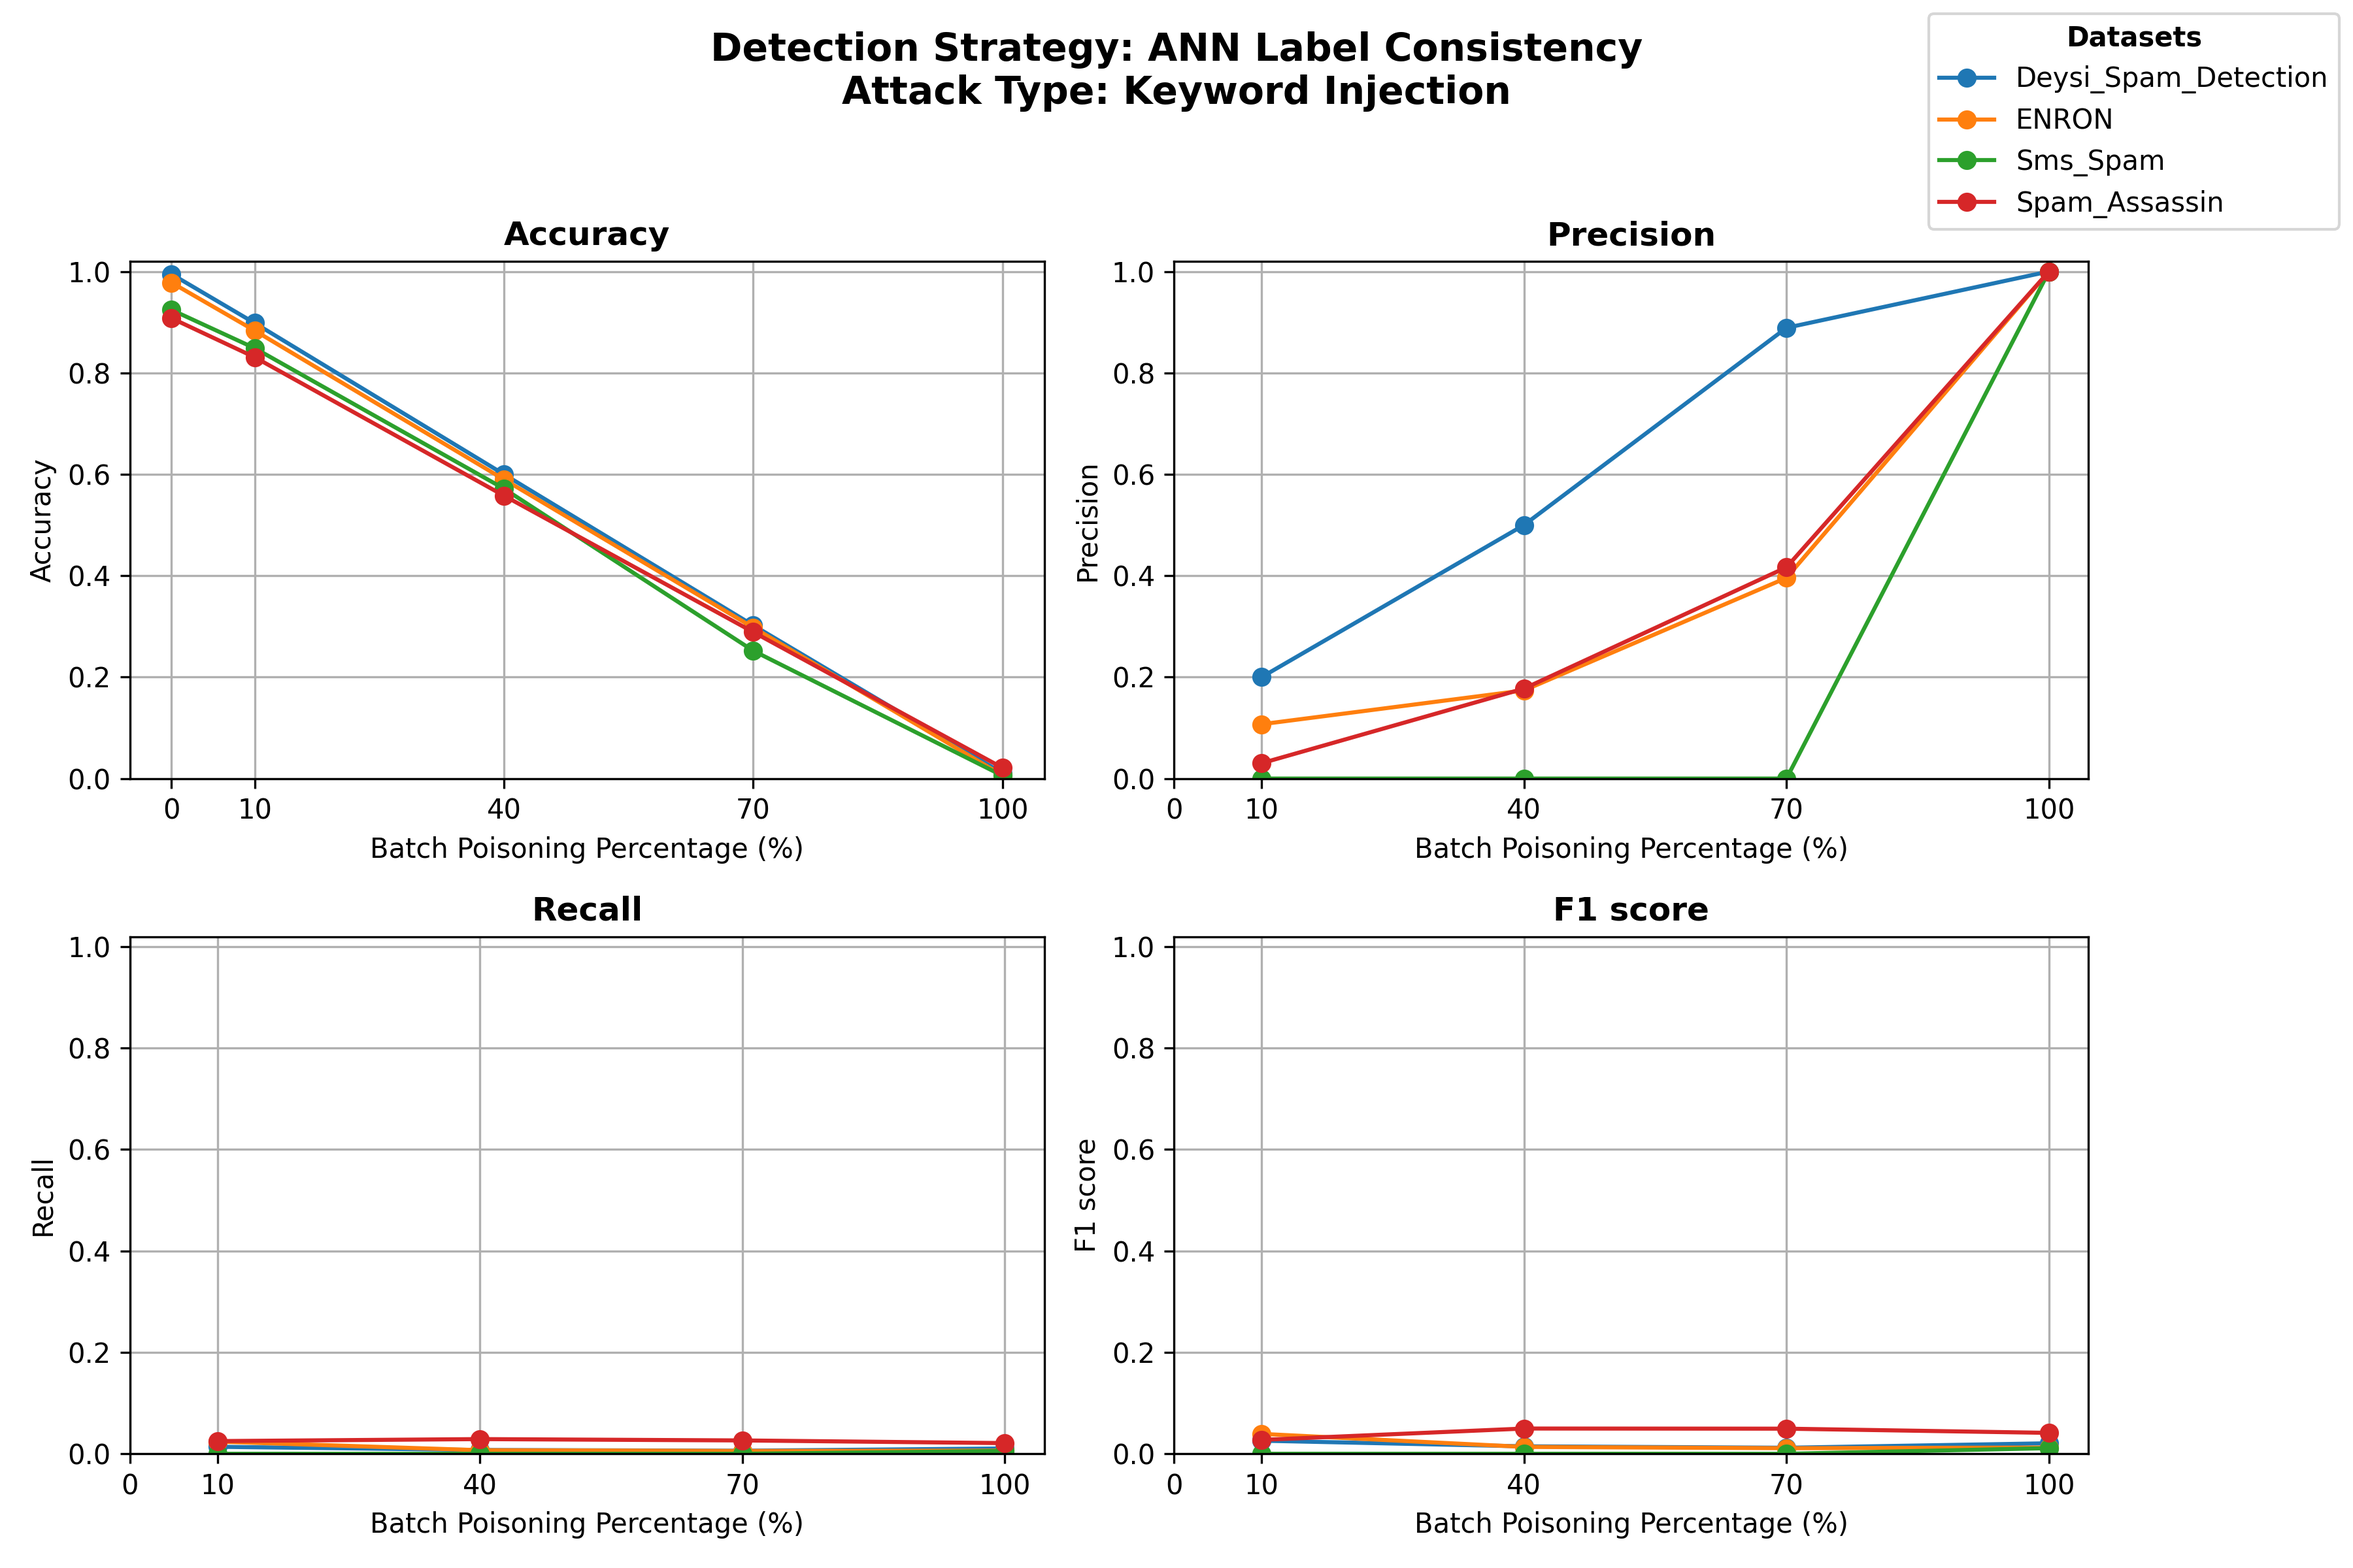
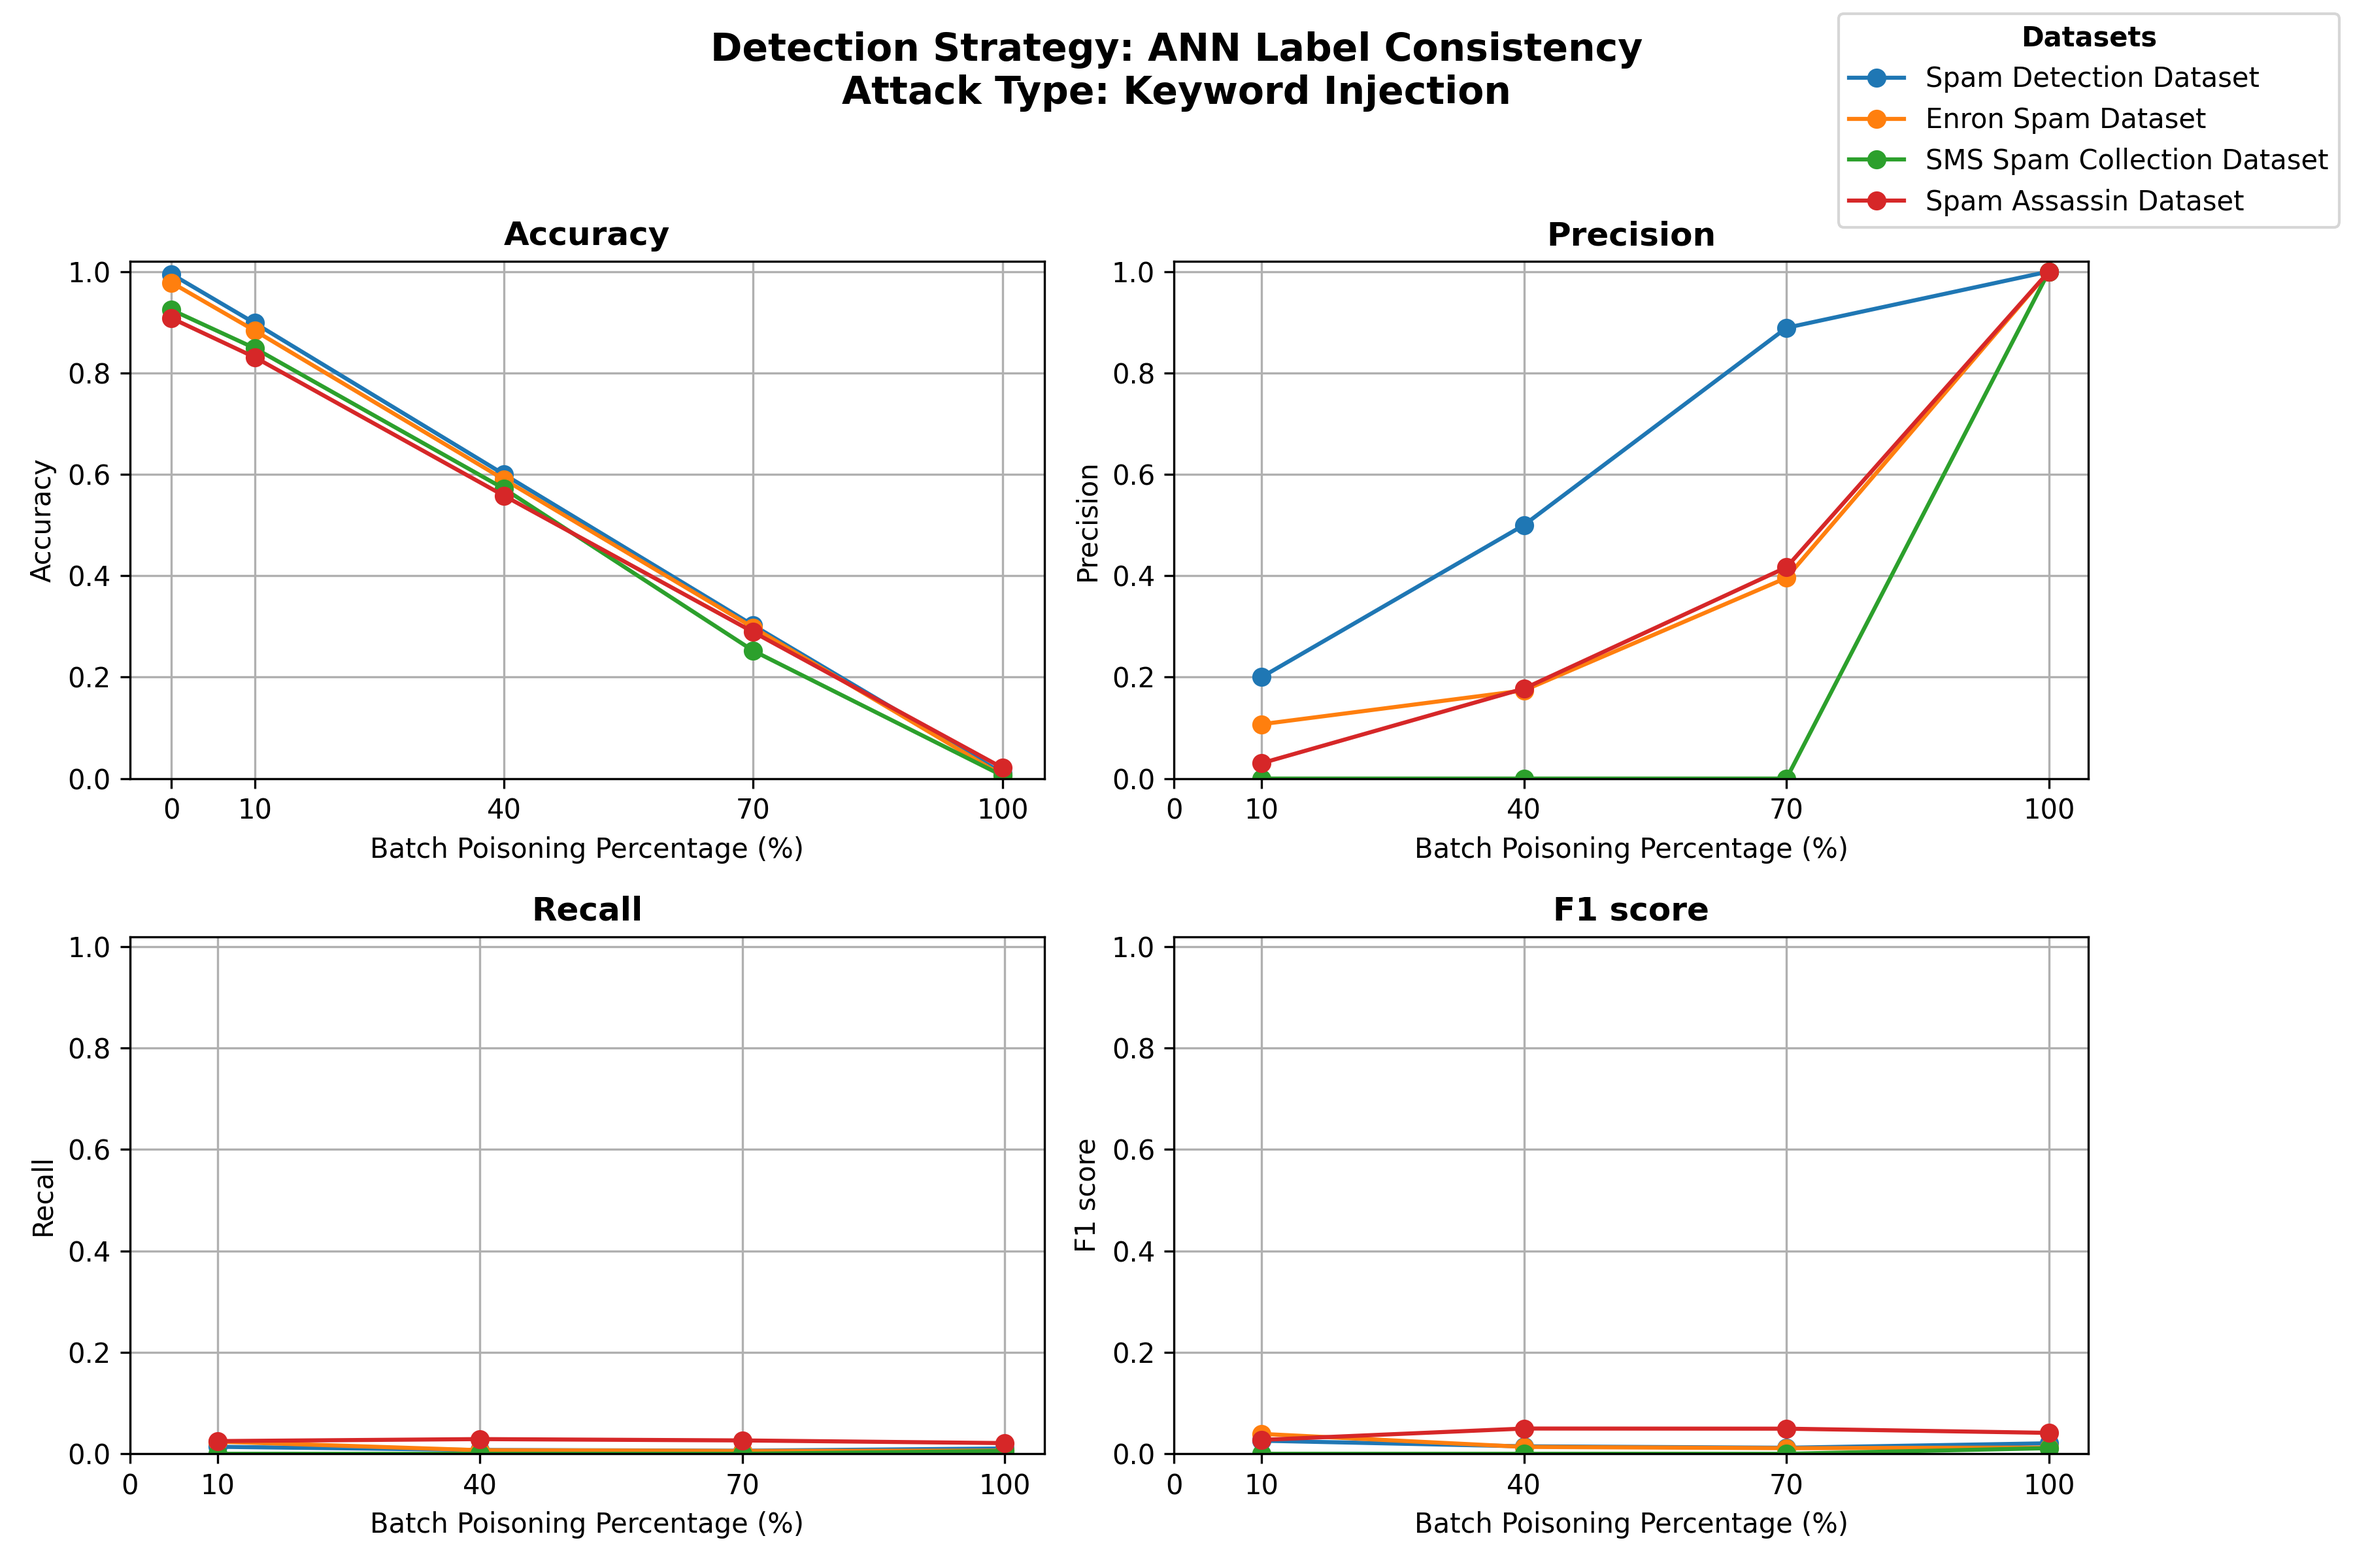
:sparkles: feat(rag-service): Fix dataset names in legend

Changed region(s): [[0.7778, 0.0, 0.9956, 0.1562]]

diff --git a/src/rag-service/detection_strategies_evaluation_experiments/graph_plotting/utils.py b/src/rag-service/detection_strategies_evaluation_experiments/graph_plotting/utils.py
@@ -17,16 +17,12 @@ def pretty_attack_name(name):
     }
     return mapping.get(name, name.replace("_", " ").title())
 
-
-def pretty_dataset_name(name):
-    return name.upper() if name.lower() == "enron" else name.title()
-
 DATASET_DISPLAY_NAMES = {
-    "Deysi_Spam_Detection": "Spam Detection Dataset",
-    "ENRON": "Enron Spam Dataset",
-    "Sms_Spam": "SMS Spam Collection Dataset",
-    "Spam_Assassin": "Spam Assassin Dataset",
+    "deysi_spam_detection": "Spam Detection Dataset",
+    "enron": "Enron Spam Dataset",
+    "sms_spam": "SMS Spam Collection Dataset",
+    "spam_assassin": "Spam Assassin Dataset",
 }
 
 def full_dataset_name(name):
-    return DATASET_DISPLAY_NAMES.get(name, pretty_dataset_name(name))
+    return DATASET_DISPLAY_NAMES.get(name, name)

diff --git a/src/rag-service/detection_strategies_evaluation_experiments/graph_plotting/plot_metric_for_rq1_multi-plots_combined_datasets.py b/src/rag-service/detection_strategies_evaluation_experiments/graph_plotting/plot_metric_for_rq1_multi-plots_combined_datasets.py
@@ -4,7 +4,7 @@ import sys
 import os
 sys.path.append(os.path.abspath(os.path.join(os.path.dirname(__file__), "..")))
 from read_evaluation_results import load_evaluation_results
-from utils import pretty_strategy_name, pretty_attack_name, pretty_dataset_name, full_dataset_name
+from utils import pretty_strategy_name, pretty_attack_name, full_dataset_name
 
 OUTPUT_DIR = "generated_graphs/rq1"
 
